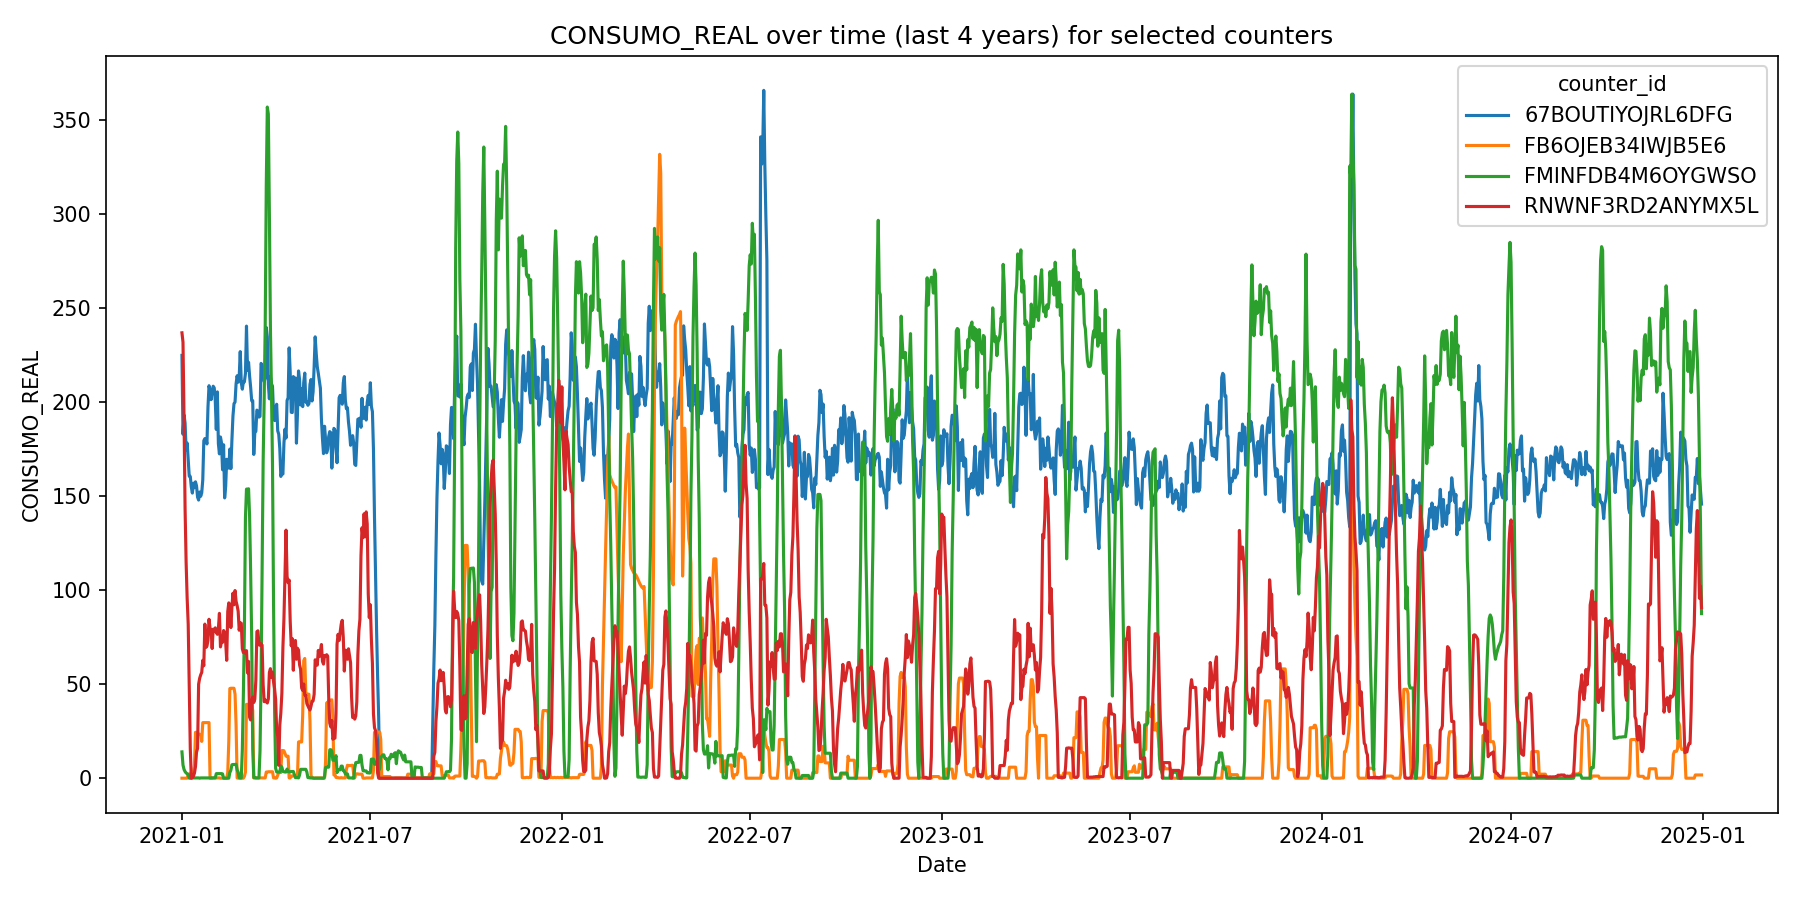
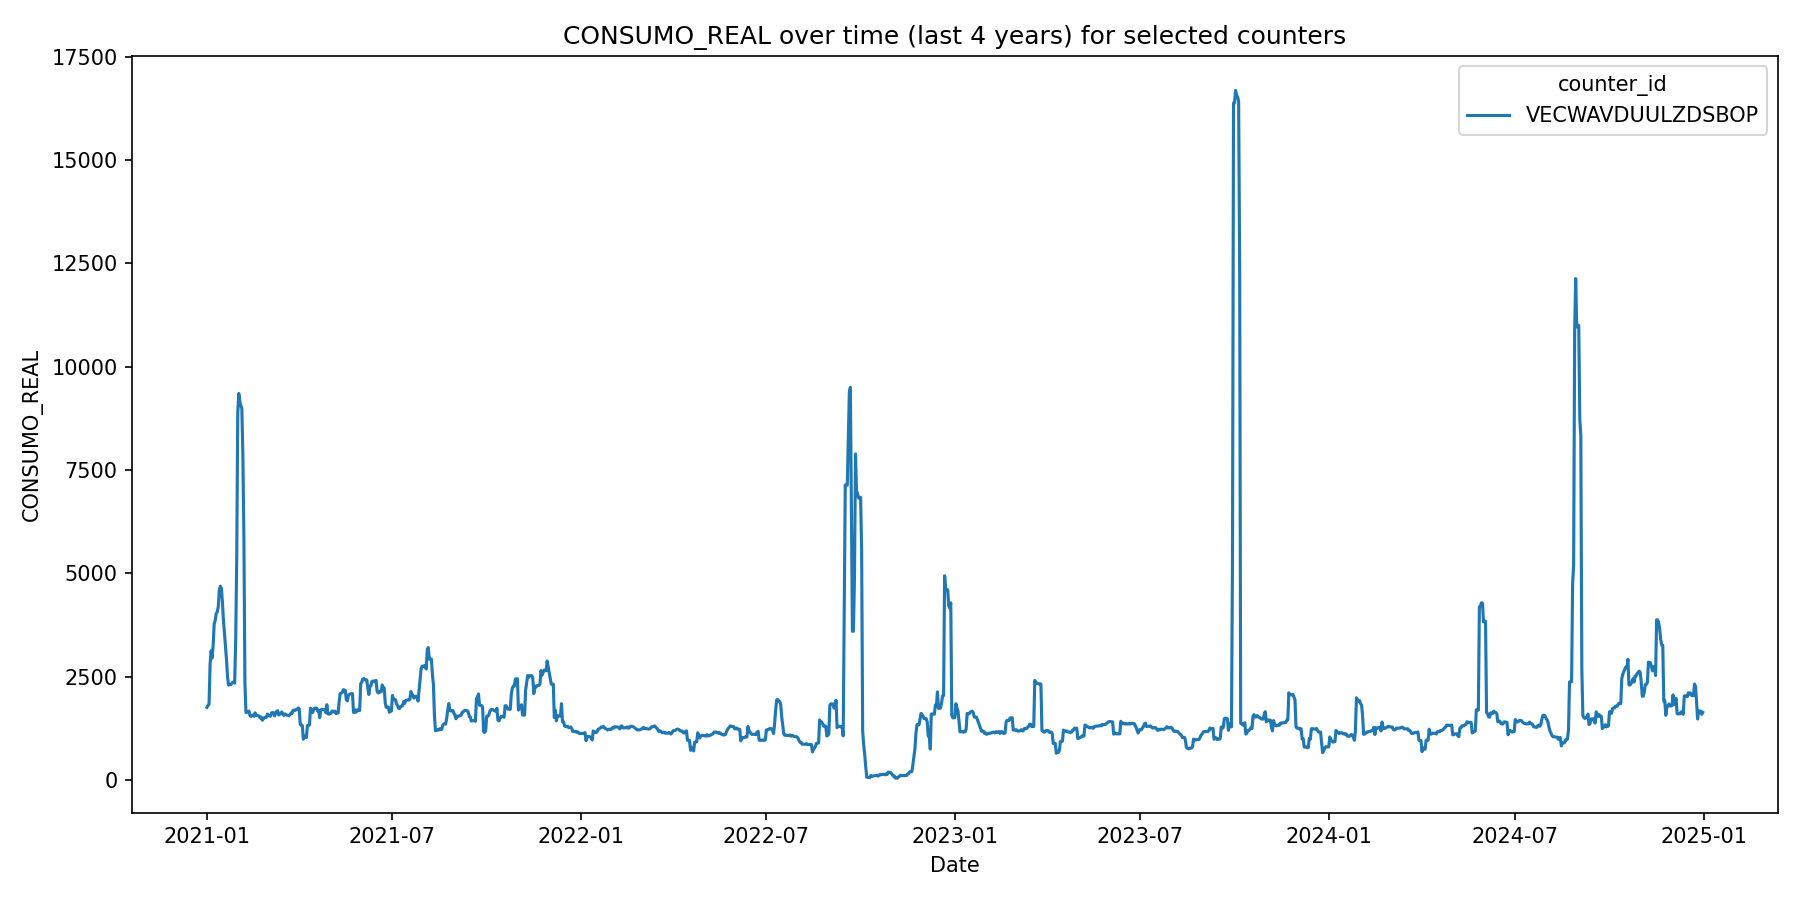
Anomaly_detection_pipeline

diff --git a/data/anomaly_detection_pipeline.py b/data/anomaly_detection_pipeline.py
@@ -1,0 +1,252 @@
+"""
+Unsupervised Anomaly Detection Pipeline for Domestic Water Meters
+Using Isolation Forest on consumption behavior features.
+"""
+
+import pandas as pd
+import numpy as np
+from sklearn.ensemble import IsolationForest
+from datetime import datetime
+
+print("=" * 80)
+print("WATER CONSUMPTION ANOMALY DETECTION PIPELINE")
+print("=" * 80)
+
+# ============================================================================
+# STEP 0 & 1: Load and filter domestic meters
+# ============================================================================
+print("\nStep 0-1: Loading and filtering data...")
+print("-" * 80)
+
+df = pd.read_parquet('Dades_Comptadors_anonymized.parquet')
+print(f"Total rows loaded: {len(df):,}")
+
+# Filter only domestic meters
+df_domestic = df[df['US_AIGUA_GEST'] == 'D'].copy()
+print(f"Domestic meters rows: {len(df_domestic):,}")
+print(f"Unique domestic meters: {df_domestic['POLIZA_SUMINISTRO'].nunique():,}")
+
+# Keep only relevant columns
+df_domestic = df_domestic[['POLIZA_SUMINISTRO', 'FECHA', 'CONSUMO_REAL']].copy()
+
+# Rename for consistency with naming convention
+df_domestic.columns = ['POLIZA_SUBM', 'FECHA', 'CONSUMO_REAL']
+
+# Convert FECHA to datetime
+df_domestic['FECHA'] = pd.to_datetime(df_domestic['FECHA'])
+
+print(f"Date range: {df_domestic['FECHA'].min()} to {df_domestic['FECHA'].max()}")
+
+# ============================================================================
+# STEP 0: Create pivoted matrix (meters × dates)
+# ============================================================================
+print("\nStep 0: Creating pivoted matrix (counters x dates)...")
+print("-" * 80)
+
+# Create pivot table
+pivot_df = df_domestic.pivot_table(
+    index='POLIZA_SUBM',
+    columns='FECHA',
+    values='CONSUMO_REAL',
+    aggfunc='sum'  # In case of duplicates
+)
+
+print(f"Pivot matrix shape: {pivot_df.shape} (meters x dates)")
+print(f"Memory usage: {pivot_df.memory_usage(deep=True).sum() / 1024**2:.2f} MB")
+
+# Save pivoted matrix
+output_pivot_path = 'domestic_consumption_matrix.csv'
+print(f"Saving pivoted matrix to: {output_pivot_path}")
+pivot_df.to_csv(output_pivot_path)
+print(">>> Pivoted matrix saved!")
+
+# ============================================================================
+# STEP 2: Compute z_ij and r_ij per meter-day
+# ============================================================================
+print("\nStep 2: Computing z_ij and r_ij features...")
+print("-" * 80)
+
+# Compute per-meter statistics
+meter_stats = df_domestic.groupby('POLIZA_SUBM')['CONSUMO_REAL'].agg([
+    ('mean', 'mean'),
+    ('std', 'std')
+]).reset_index()
+
+print(f"Computed statistics for {len(meter_stats):,} meters")
+
+# Merge stats back to the main dataframe
+df_features = df_domestic.merge(meter_stats, on='POLIZA_SUBM', how='left')
+
+# Compute z_ij: Z-score (standardized consumption)
+# Handle cases where std = 0 (constant consumption)
+df_features['z_ij'] = np.where(
+    df_features['std'] > 0,
+    (df_features['CONSUMO_REAL'] - df_features['mean']) / df_features['std'],
+    0  # If no variation, z-score is 0
+)
+
+# Compute r_ij: Ratio to mean (normalized consumption)
+# Handle cases where mean = 0
+df_features['r_ij'] = np.where(
+    df_features['mean'] > 0,
+    df_features['CONSUMO_REAL'] / df_features['mean'],
+    0  # If mean is 0, ratio is 0
+)
+
+# Keep only required columns
+df_daily_features = df_features[['POLIZA_SUBM', 'FECHA', 'CONSUMO_REAL', 'z_ij', 'r_ij']].copy()
+
+# Save daily features
+output_daily_path = 'domestic_daily_features.csv'
+print(f"Saving daily features to: {output_daily_path}")
+df_daily_features.to_csv(output_daily_path, index=False)
+print(">>> Daily features saved!")
+
+# Display sample statistics
+print("\nDaily features statistics:")
+print(df_daily_features[['CONSUMO_REAL', 'z_ij', 'r_ij']].describe())
+
+# ============================================================================
+# STEP 3: Aggregate features per meter
+# ============================================================================
+print("\nStep 3: Aggregating features per meter...")
+print("-" * 80)
+
+# Aggregate z_ij and r_ij per meter
+aggregated_features = df_daily_features.groupby('POLIZA_SUBM').agg({
+    'z_ij': ['mean', 'std', 'max', 'min'],
+    'r_ij': ['mean', 'std', 'max', 'min'],
+    'CONSUMO_REAL': ['mean', 'std', 'count']  # Additional context
+}).reset_index()
+
+# Flatten column names
+aggregated_features.columns = ['_'.join(col).strip('_') if col[1] else col[0] 
+                                for col in aggregated_features.columns.values]
+
+# Rename for clarity
+aggregated_features.rename(columns={
+    'CONSUMO_REAL_mean': 'consumo_mean',
+    'CONSUMO_REAL_std': 'consumo_std',
+    'CONSUMO_REAL_count': 'num_days'
+}, inplace=True)
+
+print(f"Aggregated features for {len(aggregated_features):,} meters")
+print("\nAggregated features columns:")
+print(aggregated_features.columns.tolist())
+
+# Handle any NaN or infinite values that might cause issues
+aggregated_features = aggregated_features.replace([np.inf, -np.inf], np.nan)
+aggregated_features = aggregated_features.fillna(0)
+
+print("\nAggregated features statistics:")
+print(aggregated_features.describe())
+
+# ============================================================================
+# STEP 4: Train Isolation Forest
+# ============================================================================
+print("\nStep 4: Training Isolation Forest model...")
+print("-" * 80)
+
+# Select features for the model
+feature_cols = [
+    'z_ij_mean', 'z_ij_std', 'z_ij_max', 'z_ij_min',
+    'r_ij_mean', 'r_ij_std', 'r_ij_max', 'r_ij_min',
+    'consumo_mean', 'consumo_std'
+]
+
+X = aggregated_features[feature_cols].values
+
+print(f"Training on {X.shape[0]:,} meters with {X.shape[1]} features")
+print(f"Features: {feature_cols}")
+
+# Train Isolation Forest
+# contamination: expected proportion of outliers (default 0.1 = 10%)
+# random_state: for reproducibility
+iso_forest = IsolationForest(
+    contamination=0.1,
+    random_state=42,
+    n_estimators=100,
+    max_samples='auto',
+    n_jobs=-1,  # Use all available cores
+    verbose=1
+)
+
+print("\nTraining model...")
+iso_forest.fit(X)
+
+# ============================================================================
+# STEP 5: Generate anomaly scores
+# ============================================================================
+print("\nStep 5: Generating anomaly scores...")
+print("-" * 80)
+
+# Predict anomaly labels (-1 for outliers, 1 for inliers)
+anomaly_labels = iso_forest.predict(X)
+
+# Get anomaly scores (lower = more anomalous)
+anomaly_scores = iso_forest.decision_function(X)
+
+# Add results to dataframe
+aggregated_features['anomaly_label'] = anomaly_labels
+aggregated_features['anomaly_score'] = anomaly_scores
+
+# Create a more intuitive anomaly score (higher = more anomalous)
+# Normalize to 0-100 scale
+min_score = anomaly_scores.min()
+max_score = anomaly_scores.max()
+aggregated_features['anomaly_score_normalized'] = (
+    100 * (1 - (anomaly_scores - min_score) / (max_score - min_score))
+)
+
+# Sort by anomaly score (most anomalous first)
+aggregated_features = aggregated_features.sort_values('anomaly_score', ascending=True)
+
+print(f"\nAnomalies detected: {(anomaly_labels == -1).sum():,} meters ({100*(anomaly_labels == -1).mean():.2f}%)")
+print(f"Normal meters: {(anomaly_labels == 1).sum():,} meters ({100*(anomaly_labels == 1).mean():.2f}%)")
+
+# ============================================================================
+# STEP 6: Export results
+# ============================================================================
+print("\nStep 6: Exporting results...")
+print("-" * 80)
+
+# Save full results with anomaly scores
+output_scores_path = 'domestic_meter_anomaly_scores.csv'
+print(f"Saving anomaly scores to: {output_scores_path}")
+aggregated_features.to_csv(output_scores_path, index=False)
+print(">>> Anomaly scores saved!")
+
+# Save top anomalies (most suspicious meters)
+top_n = 100
+top_anomalies = aggregated_features[aggregated_features['anomaly_label'] == -1].head(top_n)
+output_top_path = 'top_100_anomalous_meters.csv'
+print(f"\nSaving top {top_n} anomalous meters to: {output_top_path}")
+top_anomalies.to_csv(output_top_path, index=False)
+print(">>> Top anomalies saved!")
+
+# ============================================================================
+# Summary
+# ============================================================================
+print("\n" + "=" * 80)
+print("PIPELINE SUMMARY")
+print("=" * 80)
+print(f"Total domestic meter-days processed: {len(df_domestic):,}")
+print(f"Unique meters analyzed: {len(aggregated_features):,}")
+print(f"Date range: {df_domestic['FECHA'].min().date()} to {df_domestic['FECHA'].max().date()}")
+print(f"\nAnomalies detected: {(anomaly_labels == -1).sum():,} meters")
+print(f"Anomaly rate: {100*(anomaly_labels == -1).mean():.2f}%")
+
+print("\nOutput files generated:")
+print(f"  1. {output_pivot_path} - Pivoted consumption matrix")
+print(f"  2. {output_daily_path} - Daily features (z_ij, r_ij)")
+print(f"  3. {output_scores_path} - Anomaly scores per meter")
+print(f"  4. {output_top_path} - Top {top_n} anomalous meters")
+
+print("\nTop 10 most anomalous meters:")
+print(aggregated_features[['POLIZA_SUBM', 'anomaly_score_normalized', 'anomaly_label', 
+                           'consumo_mean', 'z_ij_max', 'r_ij_max']].head(10).to_string(index=False))
+
+print("\n" + "=" * 80)
+print("PIPELINE COMPLETED SUCCESSFULLY!")
+print("=" * 80)
+

diff --git a/data/plot_consumo_timeseries.py b/data/plot_consumo_timeseries.py
@@ -36,10 +36,11 @@ def parse_args() -> argparse.Namespace:
         "--counters",
         nargs="*",
         default=[
-            "FMINFDB4M6OYGWSO",
-            "RNWNF3RD2ANYMX5L",
-            "67BOUTIYOJRL6DFG",
-            "FB6OJEB34IWJB5E6",
+            "VECWAVDUULZDSBOP",
+
+            #"RNWNF3RD2ANYMX5L",
+            #"67BOUTIYOJRL6DFG",
+            #"FB6OJEB34IWJB5E6",
         ],
         
         help="List of POLIZA_SUMINISTRO ids",

diff --git a/data/investigate_peaks.py b/data/investigate_peaks.py
@@ -169,3 +169,4 @@ if __name__ == "__main__":
     main()
 
 
+
